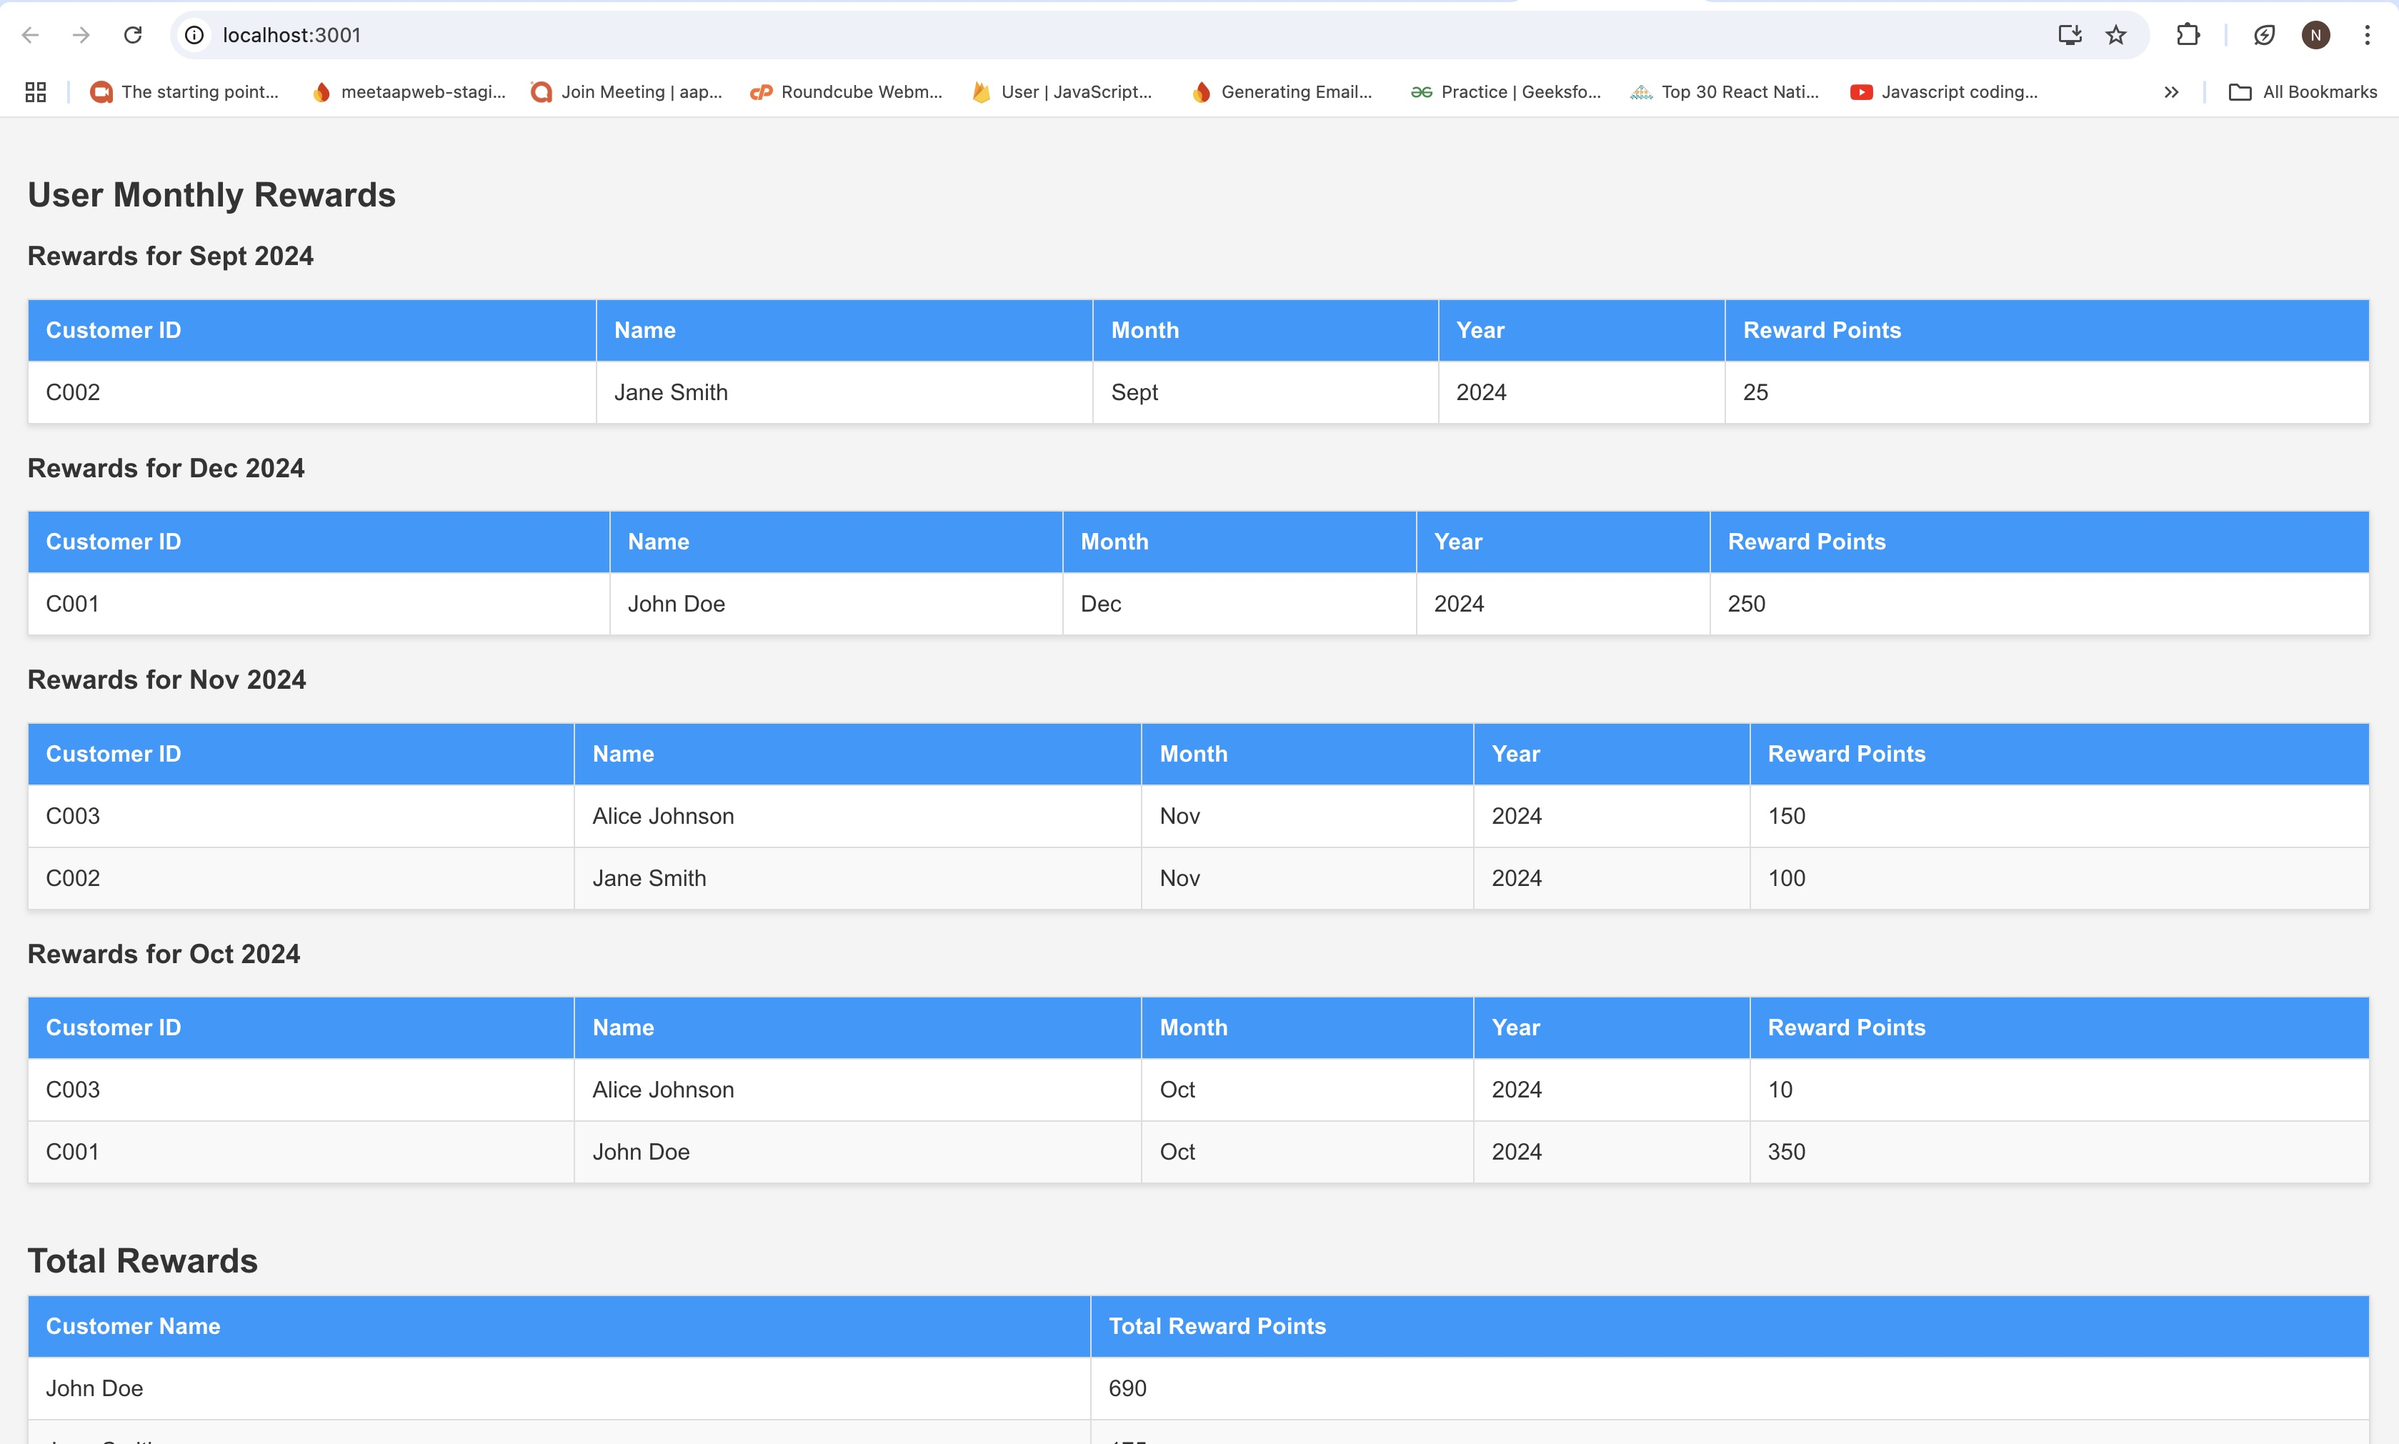
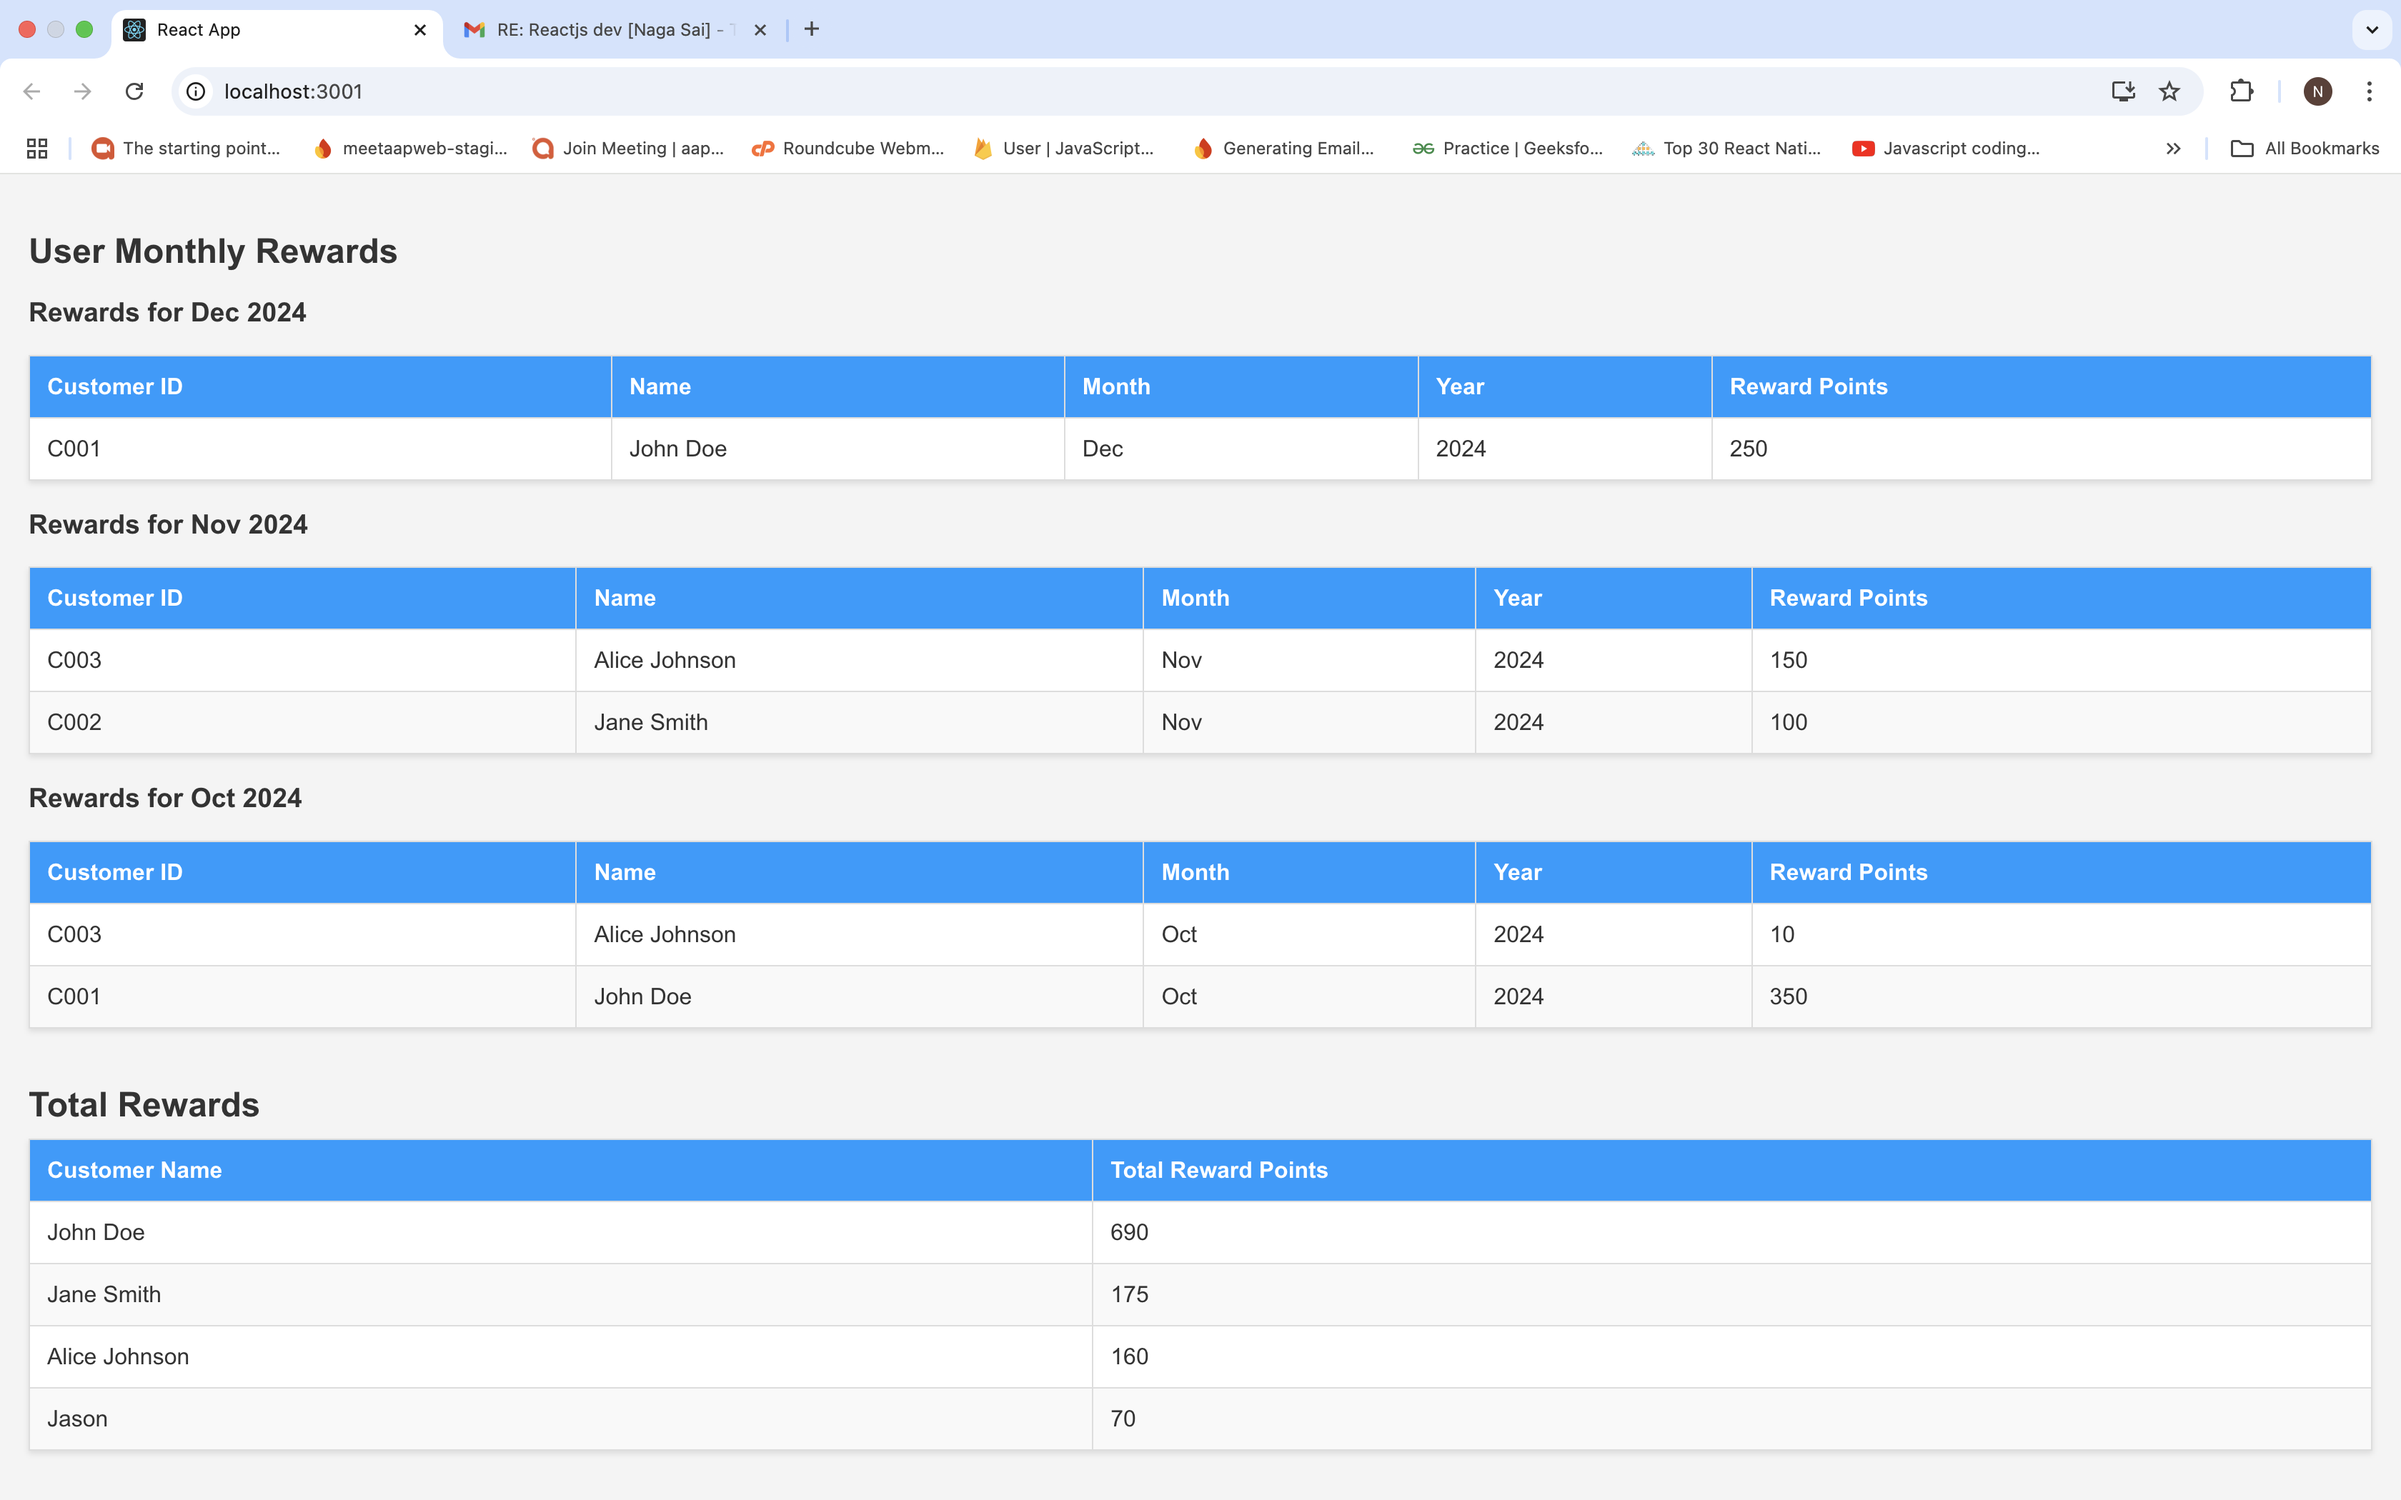
New Changes with loggers and negative test cases

diff --git a/src/utils/dataProcessor.js b/src/utils/dataProcessor.js
@@ -1,10 +1,22 @@
+import log from "../utils/logger"
+
+
 // Function to calculate reward points dynamically with decimal handling
 export const calculateRewardPoints = (amount) => {
   let points = 0;
+  if (amount == null || isNaN(amount)) {
+    log.warn('Invalid amount provided:', amount);
+    return 0;
+}
+if (amount < 0) {
+    log.warn('Negative value encountered:', amount);
+    return 0;
+}
   // 1 point for every dollar spent over $50, up to $100
   if (amount > 50) points += Math.floor(amount - 50);
   // Additional 1 point for every dollar spent over $100
   if (amount > 100) points += Math.floor(amount - 100);
+  log.info(`Reward points calculated for amount ${amount}: ${points}`);
   return points;
 };
 
@@ -18,6 +30,10 @@ export const formatMonthYear = (date) => {
 
 // Group rewards by month and year
 export const groupRewardsByMonth = (rewards) => {
+  if(!Array.isArray(rewards)) {
+    log.error('Invalid rewards data provided:', rewards);
+    return {};
+  }
   return rewards.reduce((acc, reward) => {
     const key = `${reward.month}-${reward.year}`;
     if (!acc[key]) acc[key] = [];
@@ -28,9 +44,11 @@ export const groupRewardsByMonth = (rewards) => {
 
 // Function to process transactions and group them by month
 export const processMonthlyRewards = (transactions) => {
+  if(!Array.isArray(transactions)) {
+    log.error('Invalid transactions data provided:', transactions);
+    return [];
+  }
   const rewardsMap = {};
-
-
     // Get the current date and calculate the date three months ago
     const currentDate = new Date();
     const threeMonthsAgo = new Date(
@@ -41,9 +59,23 @@ export const processMonthlyRewards = (transactions) => {
 
   transactions.forEach((transaction) => {
     const { customerId, customerName, amountSpent, transactionDate } = transaction;
-
+    if (amountSpent == null || isNaN(amountSpent)) {
+      log.warn('Invalid amount spent provided:', amountSpent);
+      return;
+    }
+    if (amountSpent < 0) {
+      log.warn('Negative value encountered:', amountSpent);
+      return;
+    }
+    if(!customerId || !customerName || !transactionDate) {
+      log.warn('Missing required fields:', transaction);
+      return;
+    }
     const date = new Date(transactionDate);
-    if (date < threeMonthsAgo) return; // Skip transactions older than 3 months
+    if (date < threeMonthsAgo) 
+      {log.info('Skipping transaction older than 3 months:', transaction);
+        return; // Skip transactions older than 3 months
+      }
     const year = date.getFullYear();
     const month = date.toLocaleString("default", { month: "short" }); // e.g., "Jan", "Feb"
     const rewardPoints = calculateRewardPoints(amountSpent);
@@ -63,6 +95,8 @@ export const processMonthlyRewards = (transactions) => {
 
     // Add reward points to the existing total for this month
     rewardsMap[key].rewardPoints += rewardPoints;
+    log.info(`Updated reward points for ${key}:`, rewardsMap[key]);
+
   });
 
   return Object.values(rewardsMap); // Convert the map to an array
@@ -71,16 +105,29 @@ export const processMonthlyRewards = (transactions) => {
 
  // Function to calculate total reward points for each customer
  export const processTotalRewards = (transactions) => {
+  if(!Array.isArray(transactions)) {
+    log.error('Invalid transactions data provided:', transactions);
+    return [];
+  }
   const totalRewards = {};
 
   transactions.forEach((transaction) => {
+    if (!transaction || isNaN(transaction.amountSpent) || !transaction.customerName || transaction === null || transaction === undefined) {
+      log.warn('Skipping invalid transaction:', transaction);
+      return;
+    }
+    if (transaction.amountSpent < 0) {
+      log.warn('Negative amount encountered, skipping transaction:', transaction);
+      return;
+    }
     const rewardPoints = calculateRewardPoints(transaction.amountSpent);
-
     if (!totalRewards[transaction.customerName]) {
       totalRewards[transaction.customerName] = 0;
     }
 
     totalRewards[transaction.customerName] += rewardPoints;
+    log.info(`Updated total reward points for ${transaction.customerName}: ${totalRewards[transaction.customerName]}`);
+
   });
 
   return Object.entries(totalRewards).map(([customerName, totalPoints]) => ({

diff --git a/src/App.test.js b/src/App.test.js
@@ -1,5 +1,5 @@
 import { calculateRewardPoints, groupRewardsByMonth, processMonthlyRewards, processTotalRewards } from "./utils/dataProcessor";
-
+import log from "./utils/logger"
 
 describe('Data Processor Functions', () => {
   // Test cases for calculateRewardPoints
@@ -112,5 +112,95 @@ describe('Data Processor Functions', () => {
       const result = processTotalRewards([]);
       expect(result).toEqual([]);
     });
+  });
+});
+
+// Add this describe block after the existing describe blocks in App.test.js
+
+describe("processTransactions validation and logging", () => {
+  let originalLogger;
+
+  beforeEach(() => {
+    originalLogger = { ...log };
+    log.warn = jest.fn();
+    log.error = jest.fn();
+    log.info = jest.fn();
+  });
+
+  afterEach(() => {
+    Object.assign(log, originalLogger);
+  });
+
+  test("handles null transaction", () => {
+    const transactions = [null];
+    const result = processTotalRewards(transactions);
+    expect(result).toEqual([]);
+    expect(log.warn).toHaveBeenCalledWith('Skipping invalid transaction:', null);
+  });
+
+  test("handles undefined transaction", () => {
+    const transactions = [undefined];
+    const result = processTotalRewards(transactions);
+    expect(result).toEqual([]);
+    expect(log.warn).toHaveBeenCalledWith('Skipping invalid transaction:', undefined);
+  });
+
+  test("handles transaction with invalid amount", () => {
+    const transactions = [
+      { customerName: "John Doe", amountSpent: "invalid" }
+    ];
+    const result = processTotalRewards(transactions);
+    expect(result).toEqual([]);
+    expect(log.warn).toHaveBeenCalledWith('Skipping invalid transaction:', transactions[0]);
+  });
+
+  test("handles transaction with negative amount", () => {
+    const transactions = [
+      { customerName: "John Doe", amountSpent: -50 }
+    ];
+    const result = processTotalRewards(transactions);
+    expect(result).toEqual([]);
+    expect(log.warn).toHaveBeenCalledWith('Negative amount encountered, skipping transaction:', transactions[0]);
+  });
+
+  test("handles transaction with missing customer name", () => {
+    const transactions = [
+      { amountSpent: 100 }
+    ];
+    const result = processTotalRewards(transactions);
+    expect(result).toEqual([]);
+    expect(log.warn).toHaveBeenCalledWith('Skipping invalid transaction:', transactions[0]);
+  });
+
+  test("processes mix of valid and invalid transactions", () => {
+    const transactions = [
+      { customerName: "John Doe", amountSpent: 120 },
+      { customerName: "Jane Smith", amountSpent: -50 },
+      null,
+      { customerName: "Bob Wilson", amountSpent: 75 }
+    ];
+    
+    const result = processTotalRewards(transactions);
+    
+    // Check final results
+    expect(result).toEqual([
+      { customerName: "John Doe", totalPoints: 90 },
+      { customerName: "Bob Wilson", totalPoints: 25 }
+    ]);
+  
+    // Verify warning logs
+    expect(log.warn).toHaveBeenCalledTimes(2);
+    expect(log.warn).toHaveBeenCalledWith('Negative amount encountered, skipping transaction:', 
+      expect.objectContaining({ customerName: "Jane Smith" }));
+    expect(log.warn).toHaveBeenCalledWith('Skipping invalid transaction:', null);
+  
+    // Verify info logs - now expecting 4 calls (one for initial points, one for total)
+    expect(log.info).toHaveBeenCalledTimes(4);
+    expect(log.info).toHaveBeenCalledWith(
+      expect.stringContaining("Updated total reward points for John Doe")
+    );
+    expect(log.info).toHaveBeenCalledWith(
+      expect.stringContaining("Updated total reward points for Bob Wilson")
+    );
   });
 });

diff --git a/src/data/transactions.js b/src/data/transactions.js
@@ -1,6 +1,6 @@
 const mockTransactions = [
   { transactionId: 1, customerId: "C001", customerName: "John Doe", amountSpent: 120.0,productPurchased:"macBook", transactionDate: "2023-12-21" },
-  { transactionId: 2, customerId: "C002", customerName: "Jane Smith", amountSpent: 75.0,productPurchased:"pro Book", transactionDate: "2024-09-16" },
+  { transactionId: 2, customerId: "C002", customerName: "Jane Smith", amountSpent: 75.0,productPurchased:"pro Book", transactionDate: "2024-09-10" },
   { transactionId: 3, customerId: "C001", customerName: "John Doe", amountSpent: 200.0,productPurchased:"iphone", transactionDate: "2024-12-05" },
   { transactionId: 4, customerId: "C003", customerName: "Alice Johnson", amountSpent: 150.0,productPurchased:"samsung", transactionDate: "2024-11-15" },
   { transactionId: 5, customerId: "C002", customerName: "Jane Smith", amountSpent: 100.4,productPurchased:"oneplus", transactionDate: "2023-12-30" },

diff --git a/src/utils/logger.js b/src/utils/logger.js
@@ -1,0 +1,5 @@
+import log from 'loglevel';
+
+log.setLevel('info');
+
+export default log;

diff --git a/README.md b/README.md
@@ -8,7 +8,15 @@ This application processes customer transactions to calculate and display monthl
 2. **Monthly Rewards**: Aggregates reward points by customer, grouped by month and year.
 3. **Total Rewards**: Calculates total reward points for each customer.
 4. **Filtering**: Ignores transactions older than three months during monthly reward processing.
-5. **Unit Testing**: Includes comprehensive test cases for all utility functions using Jest.
+5. **Validation & Error Handling**:
+   - Validates transaction amounts and customer data
+   - Handles null/undefined transactions
+   - Prevents negative amount processing
+6. **Logging System**:
+   - Transaction validation warnings
+   - Reward point calculation tracking
+   - Processing error logging
+7. **Unit Testing**: Includes comprehensive test cases for all utility functions using Jest.
 
 ## File Structure
 
@@ -16,6 +24,7 @@ This application processes customer transactions to calculate and display monthl
 src/
 ├── utils/
 │   ├── dataProcessor.js  # Core logic for rewards processing
+│   ├── logger.js        # Logging utility
 ├── tests/
 │   ├── app.test.js       # Jest test cases
 ├── assets/
